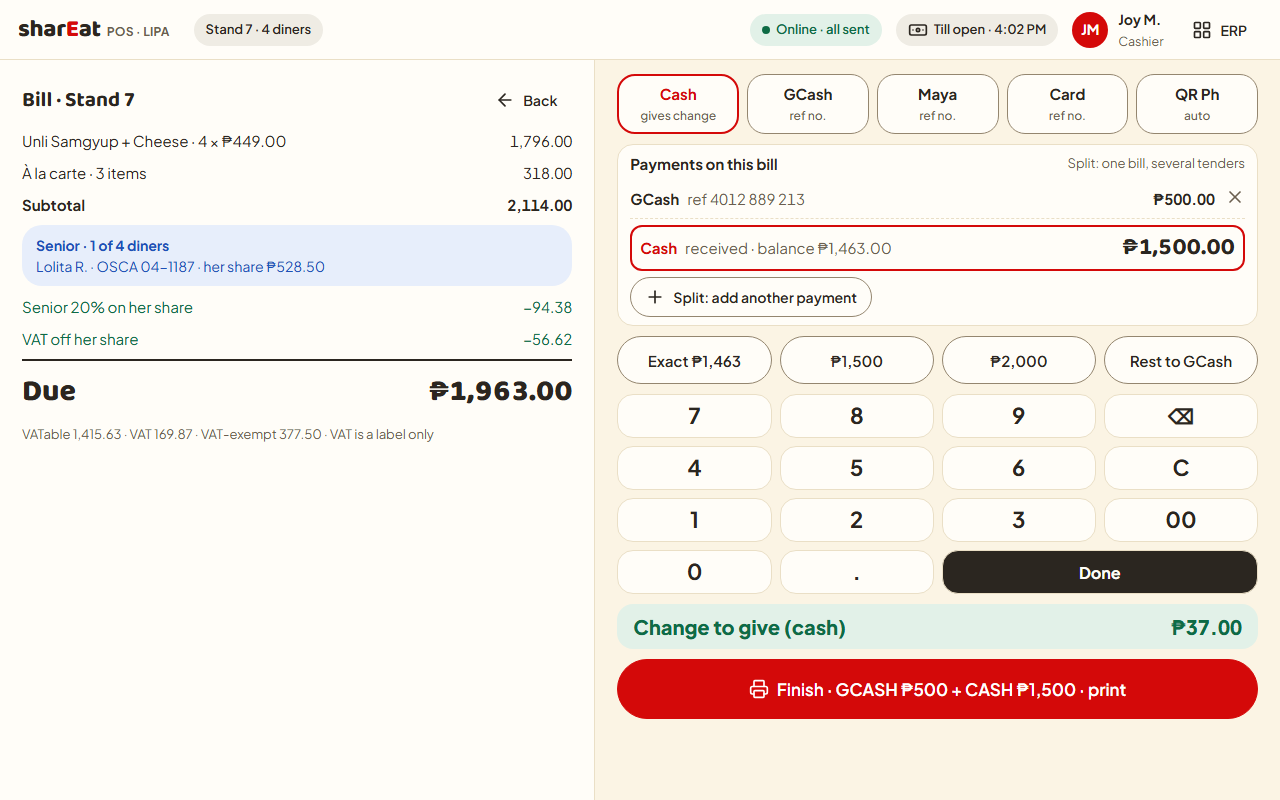
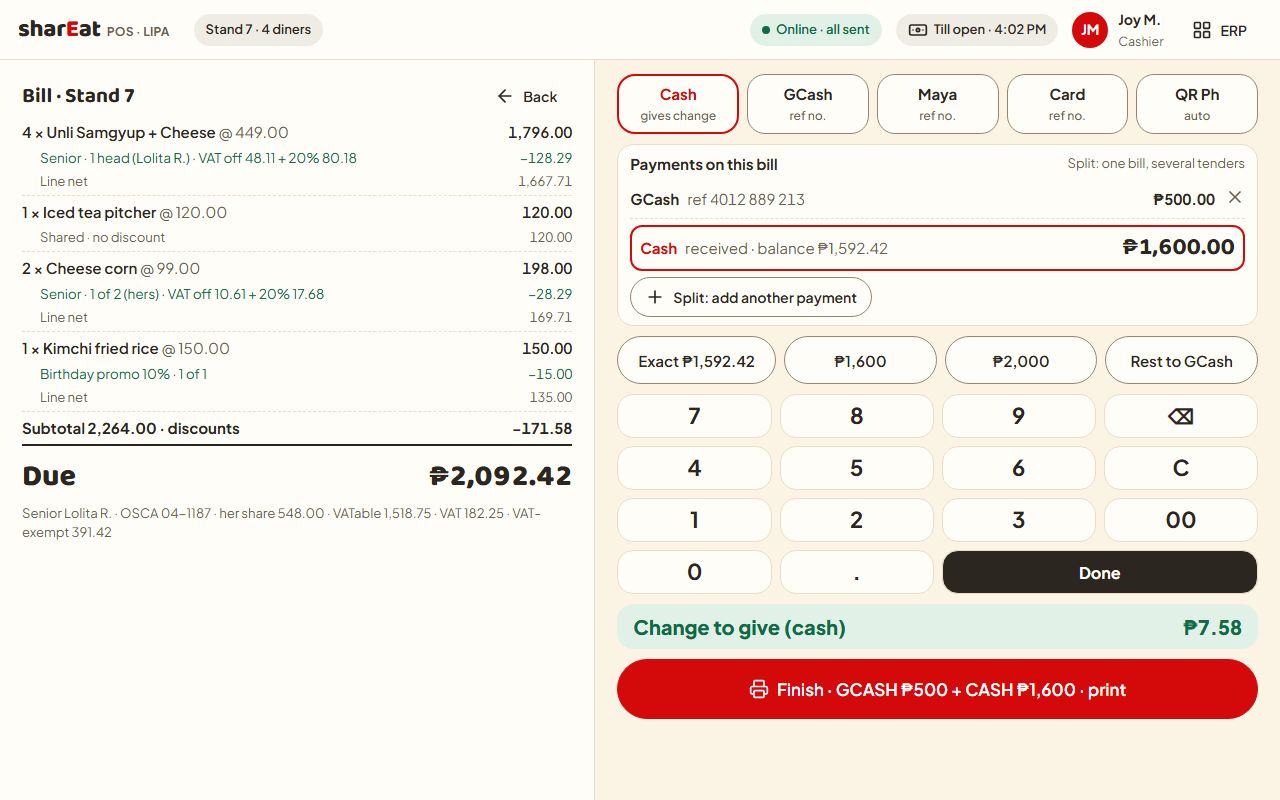
docs: itemized bill with per-line discounts (bible row 439, T-523 R13): presets, line discounts, SC/PWD per line

diff --git a/docs/plans/pos-v2-design/mocks.html b/docs/plans/pos-v2-design/mocks.html
@@ -101,7 +101,7 @@ h3{font-size:15px;margin:0;font-weight:700}
 .sp1.on{background:var(--ink);color:var(--surface);border-color:var(--ink)}
 /* payment */
 .pay{display:grid;grid-template-columns:1fr 1.15fr;flex:1;min-height:0}
-.bill{background:var(--surface);border-right:1px solid var(--surface-border);padding:20px 22px;display:grid;gap:10px;align-content:start}
+.bill{background:var(--surface);border-right:1px solid var(--surface-border);padding:16px 22px;display:grid;gap:5px;align-content:start}
 .bill .r{display:flex;justify-content:space-between;font-size:15px}
 .bill .r.minus{color:var(--success)}
 .bill .r.big{font-family:"Baloo 2";font-size:30px;font-weight:800;border-top:2px solid var(--ink);padding-top:10px}
@@ -186,18 +186,15 @@ neworder:()=>topBar()+tabs('orders')+`<div class="body"><div class="main"><div c
 <div class="gh"><span>À la carte</span><span>2 items</span></div><div class="ln"><span>1 × Iced tea pitcher</span><span class="num">120.00</span></div><div class="ln"><span>1 × Kimchi fried rice</span><span class="num">150.00</span><span class="s">Note: no egg</span></div></div>
 <div class="tot"><div class="r due"><span>Total</span><span class="num">₱1,467.00</span></div></div><div class="acts"><span class="btn primary big full">${ic('send')} Start order · send to kitchen</span></div></aside></div>`,
 payment:()=>topBar('<span class="pill" style="margin-left:10px">Stand 7 · 4 diners</span>')+banner()+`<div class="pay"><div class="bill"><div class="row" style="justify-content:space-between"><h2>Bill · Stand 7</h2><span class="btn ghost sm">${ic('arrow-left')} Back</span></div>
-<div class="r"><span>Unli Samgyup + Cheese · 4 × ₱449.00</span><span class="num">1,796.00</span></div><div class="r"><span>À la carte · 3 items</span><span class="num">318.00</span></div><div class="r" style="font-weight:700"><span>Subtotal</span><span class="num">2,114.00</span></div>
-<div class="card" style="background:var(--info-soft);border:0;padding:10px 14px;font-size:14px;color:var(--info)"><b>Senior · 1 of 4 diners</b><br>Lolita R. · OSCA 04-1187 · her share ₱528.50</div>
-<div class="r minus"><span>Senior 20% on her share</span><span class="num">−94.38</span></div><div class="r minus"><span>VAT off her share</span><span class="num">−56.62</span></div><div class="r big"><span>Due</span><span class="num">₱1,963.00</span></div>
-<div class="muted" style="font-size:13px">VATable 1,415.63 · VAT 169.87 · VAT-exempt 377.50 · VAT is a label only</div></div>
+<div class="r" style="font-weight:600"><span>4 × Unli Samgyup + Cheese <span class="muted" style="font-weight:400">@ 449.00</span></span><span class="num">1,796.00</span></div><div class="r minus" style="font-size:13.5px;padding-left:18px"><span>Senior · 1 head (Lolita R.) · VAT off 48.11 + 20% 80.18</span><span class="num">−128.29</span></div><div class="r muted" style="font-size:13px;padding-left:18px;border-bottom:1px dashed var(--surface-border);padding-bottom:4px"><span>Line net</span><span class="num">1,667.71</span></div><div class="r" style="font-weight:600"><span>1 × Iced tea pitcher <span class="muted" style="font-weight:400">@ 120.00</span></span><span class="num">120.00</span></div><div class="r muted" style="font-size:13px;padding-left:18px;border-bottom:1px dashed var(--surface-border);padding-bottom:4px"><span>Shared · no discount</span><span class="num">120.00</span></div><div class="r" style="font-weight:600"><span>2 × Cheese corn <span class="muted" style="font-weight:400">@ 99.00</span></span><span class="num">198.00</span></div><div class="r minus" style="font-size:13.5px;padding-left:18px"><span>Senior · 1 of 2 (hers) · VAT off 10.61 + 20% 17.68</span><span class="num">−28.29</span></div><div class="r muted" style="font-size:13px;padding-left:18px;border-bottom:1px dashed var(--surface-border);padding-bottom:4px"><span>Line net</span><span class="num">169.71</span></div><div class="r" style="font-weight:600"><span>1 × Kimchi fried rice <span class="muted" style="font-weight:400">@ 150.00</span></span><span class="num">150.00</span></div><div class="r minus" style="font-size:13.5px;padding-left:18px"><span>Birthday promo 10% · 1 of 1</span><span class="num">−15.00</span></div><div class="r muted" style="font-size:13px;padding-left:18px;border-bottom:1px dashed var(--surface-border);padding-bottom:4px"><span>Line net</span><span class="num">135.00</span></div><div class="r" style="font-weight:700"><span>Subtotal 2,264.00 · discounts</span><span class="num">−171.58</span></div><div class="r big"><span>Due</span><span class="num">₱2,092.42</span></div><div class="muted" style="font-size:13px">Senior Lolita R. · OSCA 04-1187 · her share 548.00 · VATable 1,518.75 · VAT 182.25 · VAT-exempt 391.42</div></div>
 <div class="tender"><div class="methods">${[['Cash','gives change',1],['GCash',off?'"to check"':'ref no.'],['Maya',off?'"to check"':'ref no.'],['Card',off?'needs internet':'ref no.',0,off],['QR Ph',off?'needs internet':'auto',0,off]].map(([n,s,on,o])=>`<div class="m ${on?'on':''} ${o?'off':''}">${n}<small>${s}</small></div>`).join('')}</div>
 <div class="card" style="padding:8px 12px;display:grid;gap:6px;border-radius:16px"><div class="row" style="justify-content:space-between"><h3>Payments on this bill</h3><span class="muted" style="font-size:13px">Split: one bill, several tenders</span></div>
 <div class="row" style="justify-content:space-between;font-size:15px;padding:6px 0;border-bottom:1px dashed var(--surface-border)"><span class="row" style="gap:8px"><b>GCash</b><span class="muted num">ref 4012 889 213</span>${off?'<span class="pill warn" style="height:24px">to check</span>':''}</span><span class="row"><b class="num">₱500.00</b><span class="muted">${ic('x')}</span></span></div>
-<div class="row" style="justify-content:space-between;font-size:15px;padding:4px 8px;border:2px solid var(--brand);border-radius:12px"><span class="row" style="gap:8px"><b style="color:var(--brand-ink)">Cash</b><span class="muted">received · balance ₱1,463.00</span></span><b class="num" style="font-family:'Baloo 2';font-size:24px">₱1,500.00</b></div>
+<div class="row" style="justify-content:space-between;font-size:15px;padding:4px 8px;border:2px solid var(--brand);border-radius:12px"><span class="row" style="gap:8px"><b style="color:var(--brand-ink)">Cash</b><span class="muted">received · balance ₱1,592.42</span></span><b class="num" style="font-family:'Baloo 2';font-size:24px">₱1,600.00</b></div>
 <span class="btn sm" style="justify-self:start">${ic('plus')} Split: add another payment</span></div>
-<div class="row" style="display:grid;grid-template-columns:repeat(4,1fr);gap:8px"><span class="btn">Exact ₱1,463</span><span class="btn">₱1,500</span><span class="btn">₱2,000</span><span class="btn">Rest to GCash</span></div>
+<div class="row" style="display:grid;grid-template-columns:repeat(4,1fr);gap:8px"><span class="btn">Exact ₱1,592.42</span><span class="btn">₱1,600</span><span class="btn">₱2,000</span><span class="btn">Rest to GCash</span></div>
 <div class="pad" style="grid-auto-rows:44px">${['7','8','9','⌫','4','5','6','C','1','2','3','00','0','.','',''].map((k,i)=>i===14?`<div class="add" style="grid-column:span 2;height:44px">Done</div>`:i===15?'':`<div style="height:44px">${k}</div>`).join('')}</div>
-<div class="bal" style="padding:8px 16px"><span>Change to give (cash)</span><span class="num">₱37.00</span></div><span class="btn primary big">${ic('printer')} Finish · GCASH ₱500 + CASH ₱1,500 · print</span></div></div>`,
+<div class="bal" style="padding:8px 16px"><span>Change to give (cash)</span><span class="num">₱7.58</span></div><span class="btn primary big">${ic('printer')} Finish · GCASH ₱500 + CASH ₱1,600 · print</span></div></div>`,
 kitchen:()=>topBar('<span class="pill" style="margin-left:10px">Kitchen · Grill station</span>',['RB','Rico B.','Kitchen staff'])+tabs('kitchen')+`<div class="main"><div class="row" style="justify-content:space-between"><div class="cats">${['All','Grill','Hot kitchen','Drinks','Refills'].map((c,i)=>`<span class="chip ${i===1?'on':''}">${c}</span>`).join('')}</div><span class="muted">Oldest first · tap a line when it goes out</span></div>
 <div class="kds">${[{n:12,t:'14 min',late:1,it:[['2','Pork belly (refill)'],['1','Beef brisket'],['x1','Kimchi']]},{n:5,t:'8 min',it:[['2','Cheese corn'],['1','Kimchi fried rice']],note:'No egg on the rice'},{n:9,t:'3 min',ref:1,it:[['3','Pork belly'],['2','Chicken bulgogi']],label:'Refill'},{n:10,t:'1 min',it:[['1','Iced tea pitcher'],['1','Kimchi fried rice'],['3','Starter set']]}].map(t=>`<div class="tk ${t.late?'late':''} ${t.ref?'ref':''}"><div class="th"><span class="no">Stand ${t.n}</span><span class="row" style="font-weight:700;font-size:14px">${t.label?t.label+' · ':''}${ic('clock')} ${t.t}</span></div><ul>${t.it.map(([q,n])=>`<li class="${q.startsWith('x')?'x':''}"><b>${q.replace('x','')}</b><span>${n}</span></li>`).join('')}${t.note?`<li><span class="note">${t.note}</span></li>`:''}</ul><div class="ft"><span class="btn ${t.late?'primary':''}" style="width:100%">${ic('check')} All out</span></div></div>`).join('')}</div></div>`,
 refill:()=>topBar()+banner()+tabs('refill')+`<div class="body"><div class="main"><div class="row" style="justify-content:space-between"><div><h1>Refills</h1><span class="muted">Servers ask here; the grill sees them at once. Refills carry no price.</span></div></div>

diff --git a/PROJECT_BIBLE.md b/PROJECT_BIBLE.md
@@ -65,35 +65,35 @@
 - `1233–1267` 10. Phase plan
 - `1268–1284` 11. Migration & ETL rules
 - `1285–1349` 12. Inherited landmines — do not repeat these
-- `1350–1771` 13. Decision log
-- `1772–1791` 14. Amendment protocol
-- `1792–1796` 15. Engineering standards — the industry practices this project follows
-  - `1797–1802` 15.1 Build order: walking skeleton first
-  - `1803–1814` 15.2 Golden-master testing — the most important practice here
-  - `1815–1823` 15.3 Strangler Fig, not big-bang cutover
-  - `1824–1828` 15.4 No dual-write
-  - `1829–1837` 15.5 Expand/contract migrations
-  - `1838–1846` 15.6 Observability from day zero, not later
-  - `1847–1851` 15.7 CI gates
-  - `1852–1856` 15.8 Backups and a tested restore
-  - `1857–1861` 15.9 Twelve-Factor config
-  - `1862–1869` 15.10 Append-only ledgers — but not event sourcing
-  - `1870–1874` 15.11 Defence in depth
-  - `1875–1903` 15.12 Skills are lenses, not assurance
-  - `1904–1910` 15.13 Reconciliation is a permanent feature
-- `1911–1915` 16. The accounting spine
-  - `1916–1947` 16.0 What we are actually fixing — the diagnosis
-  - `1948–1991` 16.1 The ten invariants — non-negotiable
-  - `1992–2006` 16.2 The oracle: how "correct" is tested
-  - `2007–2028` 16.3 The model — header + lines, not legs
-  - `2029–2048` 16.4 Deliberately simpler than ERPNext
-  - `2049–2118` 16.5 PH-specific rules — isolated, versioned, dated
-  - `2119–2143` 16.6 What v1 already gets right — preserve the intent
-  - `2144–2165` 16.7 Known defects v2 must fix — the Phase 1–3 requirements list
-  - `2166–2180` 16.8 What v1's accounting already gets right
-  - `2181–2224` 16.9 Chart-of-accounts governance — lifecycle, not "create everything"
-  - `2225–2275` 16.10 Posting patterns — one canonical pattern per business event
-  - `2276–2308` 16.11 Inventory's accounting integration
+- `1350–1772` 13. Decision log
+- `1773–1792` 14. Amendment protocol
+- `1793–1797` 15. Engineering standards — the industry practices this project follows
+  - `1798–1803` 15.1 Build order: walking skeleton first
+  - `1804–1815` 15.2 Golden-master testing — the most important practice here
+  - `1816–1824` 15.3 Strangler Fig, not big-bang cutover
+  - `1825–1829` 15.4 No dual-write
+  - `1830–1838` 15.5 Expand/contract migrations
+  - `1839–1847` 15.6 Observability from day zero, not later
+  - `1848–1852` 15.7 CI gates
+  - `1853–1857` 15.8 Backups and a tested restore
+  - `1858–1862` 15.9 Twelve-Factor config
+  - `1863–1870` 15.10 Append-only ledgers — but not event sourcing
+  - `1871–1875` 15.11 Defence in depth
+  - `1876–1904` 15.12 Skills are lenses, not assurance
+  - `1905–1911` 15.13 Reconciliation is a permanent feature
+- `1912–1916` 16. The accounting spine
+  - `1917–1948` 16.0 What we are actually fixing — the diagnosis
+  - `1949–1992` 16.1 The ten invariants — non-negotiable
+  - `1993–2007` 16.2 The oracle: how "correct" is tested
+  - `2008–2029` 16.3 The model — header + lines, not legs
+  - `2030–2049` 16.4 Deliberately simpler than ERPNext
+  - `2050–2119` 16.5 PH-specific rules — isolated, versioned, dated
+  - `2120–2144` 16.6 What v1 already gets right — preserve the intent
+  - `2145–2166` 16.7 Known defects v2 must fix — the Phase 1–3 requirements list
+  - `2167–2181` 16.8 What v1's accounting already gets right
+  - `2182–2225` 16.9 Chart-of-accounts governance — lifecycle, not "create everything"
+  - `2226–2276` 16.10 Posting patterns — one canonical pattern per business event
+  - `2277–2309` 16.11 Inventory's accounting integration
 
 <!-- TOC:END -->
 
@@ -104,7 +104,7 @@
 
 | | |
 |---|---|
-| **Version** | 3.23 — **POS v2 is a full-screen module of the ERP app on the one Postgres, with no Firebase database, sign-in or server; offline selling uses the tablet's own outbox and a snapshot; Lipa on it by 7 Dec 2026 with the 24 h soak as the go-live gate; loyalty not in the first release; the edge-lane wording follows row 280; Lipa's December totals bridge to v1 until 31 Dec; per-diner SC/PWD; split payment like v1 (§13 rows 430–438, `docs/plans/pos-v2-design.md`).** Carries 3.22 — **Ian's 2026-10-14 answers: one person one id, the clock stays fingerprint/card; a narrowing-only position pick (part of row 198); a true per-category receipt exemption with its detector (reverses T-196 decision 2); a local OCR engine allowed (narrows row 251); settlement files parsed; liabilities = one unpaid view (§13 rows 319–331).** Carries 3.21 — **POS and CUSTOMER v1 are copied into this monorepo and moved onto the one Postgres and one auth; sales figures are never typed or edited in the ERP; one Postgres, no hot/cold; POS sells offline 24 h per device; Firebase exit scope PROVISIONAL; `other` retired as an expense method; a push to main is a deploy (§13 rows 269–278, ADR-015).** Carries 3.20 — **push only at wrap-up; every visible refusal names things in words, and only records visible at THIS store; hand grants close-and-replace rather than re-label, staying at that store (supersedes row 188's re-label and T-291 decision 5's mechanism); tests assert the target; number boxes are text with inputMode; blank means not decided; payout account admin-only; descriptions clamp at 3 lines (§13 rows 228–237).** Carries 3.19 (**a POSITION, not a role, decides what a person may do — the `staff` baseline is shrunk to nothing and all 21 everyday capabilities become position grants (§13 row 210); a capability REMOVAL ships backfill-first then flip, never the flip alone, and the backfill is the task rather than a precaution (§13 row 211); and a static census only NOMINATES candidates — running them is what settles it, because three passes of careful reading said 19, 20, and the real number was 22 (§13 row 212).** Carries 3.18 (**prefer a guard to `!` on a regex match; where `!` is used, a comment names what makes it safe, because `!` is the one remedy that silently switches off the `noUncheckedIndexedAccess` this repo turned on deliberately (§13 row 206).** Carries 3.17 (**a remedy is as perishable as a diagnosis: any comment or register row naming a specific token — an identifier, a line number, a secret, a file — and asserting a present-tense fact about it goes stale with nobody editing it, so record the RULING and prefer a NAME to a POSITION (§13 row 204); and production publishes the commit it is running at `/api/health`, the disclosure accepted and named rather than discovered (§13 row 205).** Carries 3.16 (**position access defaults are materialised `person_grants` rows with provenance `'position'`, reconciled at the five moments a human is present and never consulted at check time; a position can only ADD to the role matrix, never subtract; the screen is gated on `grant_capability`, not the `super_admin` literal (§13 row 198).** Carries 3.15 (**the fiscal-period override reaches an elevated manager in an organisation with NO administrator, and that enrolment is intended rather than a leak in row 193 — the adminless fallback is DERIVED from the matrix, so an admin-only capability joins it with no edit to any list (§13 row 196).** Carries 3.14 (**the bootstrap question *“has this system been set up at all?”* joins the closed cross-org caller list at all three sites that ask it, using bootstrap’s own door rather than widening the auth door (§13 row 195); the guard enforcing that list scanned two of nine source roots and now scans all of them (DEF-295).** Carries 3.13 (**an elevated manager's grants are revoked when the organisation gains an active administrator; the elevation ends when the administrator arrives, and is never re-derived at check time (§13 row 188).** Carries 3.12 (a recurring expense drafts itself and never auto-pays; the job acts as its author through the ordinary gates — §13 row 183), 3.11 (§12 gains the sweep-control landmine: a sweep that reports a total must first report a known non-zero control — §13 row 181), 3.10 (the cutover wipes transactional data, not stores and store settings — the Wastage Monitor survives cutover — §13 row 182), 3.9 (the tenancy id never comes from the client, and RLS is the second layer behind the repository filter — never the only one, never absent — §13 row 181), 3.8 (order-wastage tracked-vs-instant is a per-CHANNEL policy, not a per-record choice — §13 row 180), 3.7 (every v1 feature is accounted for in v2 — carried, folded or evolved, never silently dropped — and where v1's data shape drifted over time the most recent shape outweighs the old — §1.2d, §13 row 179), 3.6 (§4.2 rule 7 covers every dashboard tile, not only accounting statements: a separately-accumulated counter is forbidden even when it is called a cache — §13 row 173), 3.5 (discovery has a stated method, §1.2d: synthesize v1's goal in writing, weigh whether the live data is in good shape, then design v2 to beat that goal — v1 is the flawed version, v2 is the improved one), 3.4 (UI/UX is a third authority: familiar-but-upgraded screens, one visual family across ERP/POS/CUSTOMER), 3.3 (an unverified supplier invoice may carry a DRAFT expense), 3.2 (inventory is PERPETUAL from v2's first posting; a return is a credit in both directions), 3.1 (no SC/PWD statutory record is kept) and 3.0 (the card id joins the hot set) — §13 rows 164–173))))))) |
+| **Version** | 3.23 — **POS v2 is a full-screen module of the ERP app on the one Postgres, with no Firebase database, sign-in or server; offline selling uses the tablet's own outbox and a snapshot; Lipa on it by 7 Dec 2026 with the 24 h soak as the go-live gate; loyalty not in the first release; the edge-lane wording follows row 280; Lipa's December totals bridge to v1 until 31 Dec; per-diner SC/PWD; split payment like v1; an itemized bill with per-line discounts (§13 rows 430–439, `docs/plans/pos-v2-design.md`).** Carries 3.22 — **Ian's 2026-10-14 answers: one person one id, the clock stays fingerprint/card; a narrowing-only position pick (part of row 198); a true per-category receipt exemption with its detector (reverses T-196 decision 2); a local OCR engine allowed (narrows row 251); settlement files parsed; liabilities = one unpaid view (§13 rows 319–331).** Carries 3.21 — **POS and CUSTOMER v1 are copied into this monorepo and moved onto the one Postgres and one auth; sales figures are never typed or edited in the ERP; one Postgres, no hot/cold; POS sells offline 24 h per device; Firebase exit scope PROVISIONAL; `other` retired as an expense method; a push to main is a deploy (§13 rows 269–278, ADR-015).** Carries 3.20 — **push only at wrap-up; every visible refusal names things in words, and only records visible at THIS store; hand grants close-and-replace rather than re-label, staying at that store (supersedes row 188's re-label and T-291 decision 5's mechanism); tests assert the target; number boxes are text with inputMode; blank means not decided; payout account admin-only; descriptions clamp at 3 lines (§13 rows 228–237).** Carries 3.19 (**a POSITION, not a role, decides what a person may do — the `staff` baseline is shrunk to nothing and all 21 everyday capabilities become position grants (§13 row 210); a capability REMOVAL ships backfill-first then flip, never the flip alone, and the backfill is the task rather than a precaution (§13 row 211); and a static census only NOMINATES candidates — running them is what settles it, because three passes of careful reading said 19, 20, and the real number was 22 (§13 row 212).** Carries 3.18 (**prefer a guard to `!` on a regex match; where `!` is used, a comment names what makes it safe, because `!` is the one remedy that silently switches off the `noUncheckedIndexedAccess` this repo turned on deliberately (§13 row 206).** Carries 3.17 (**a remedy is as perishable as a diagnosis: any comment or register row naming a specific token — an identifier, a line number, a secret, a file — and asserting a present-tense fact about it goes stale with nobody editing it, so record the RULING and prefer a NAME to a POSITION (§13 row 204); and production publishes the commit it is running at `/api/health`, the disclosure accepted and named rather than discovered (§13 row 205).** Carries 3.16 (**position access defaults are materialised `person_grants` rows with provenance `'position'`, reconciled at the five moments a human is present and never consulted at check time; a position can only ADD to the role matrix, never subtract; the screen is gated on `grant_capability`, not the `super_admin` literal (§13 row 198).** Carries 3.15 (**the fiscal-period override reaches an elevated manager in an organisation with NO administrator, and that enrolment is intended rather than a leak in row 193 — the adminless fallback is DERIVED from the matrix, so an admin-only capability joins it with no edit to any list (§13 row 196).** Carries 3.14 (**the bootstrap question *“has this system been set up at all?”* joins the closed cross-org caller list at all three sites that ask it, using bootstrap’s own door rather than widening the auth door (§13 row 195); the guard enforcing that list scanned two of nine source roots and now scans all of them (DEF-295).** Carries 3.13 (**an elevated manager's grants are revoked when the organisation gains an active administrator; the elevation ends when the administrator arrives, and is never re-derived at check time (§13 row 188).** Carries 3.12 (a recurring expense drafts itself and never auto-pays; the job acts as its author through the ordinary gates — §13 row 183), 3.11 (§12 gains the sweep-control landmine: a sweep that reports a total must first report a known non-zero control — §13 row 181), 3.10 (the cutover wipes transactional data, not stores and store settings — the Wastage Monitor survives cutover — §13 row 182), 3.9 (the tenancy id never comes from the client, and RLS is the second layer behind the repository filter — never the only one, never absent — §13 row 181), 3.8 (order-wastage tracked-vs-instant is a per-CHANNEL policy, not a per-record choice — §13 row 180), 3.7 (every v1 feature is accounted for in v2 — carried, folded or evolved, never silently dropped — and where v1's data shape drifted over time the most recent shape outweighs the old — §1.2d, §13 row 179), 3.6 (§4.2 rule 7 covers every dashboard tile, not only accounting statements: a separately-accumulated counter is forbidden even when it is called a cache — §13 row 173), 3.5 (discovery has a stated method, §1.2d: synthesize v1's goal in writing, weigh whether the live data is in good shape, then design v2 to beat that goal — v1 is the flawed version, v2 is the improved one), 3.4 (UI/UX is a third authority: familiar-but-upgraded screens, one visual family across ERP/POS/CUSTOMER), 3.3 (an unverified supplier invoice may carry a DRAFT expense), 3.2 (inventory is PERPETUAL from v2's first posting; a return is a credit in both directions), 3.1 (no SC/PWD statutory record is kept) and 3.0 (the card id joins the hot set) — §13 rows 164–173))))))) |
 | **Created** | 2026-08-22 |
 | **Last amended** | 2026-11-06 | <!-- ⚠ This field read 2026-09-12 while rows 201, 202 and 203 had already landed on 2026-09-13: §14 step 3 says bump it and the bump was missed. The hand-maintained half of any pair is the half that rots (DEF-240), and this field is the hand-maintained half of §13. -->
 | **Status** | Accounting-correctness project (§1.1). All discovery complete. Root cause identified (§16.0). **Chart of accounts aligned and signed off.** Ready to write Phase 0/1 task specs. |
@@ -909,7 +909,7 @@ The hot set is **closed**. Adding to it requires a bible amendment (§14): every
 addition widens the offline attack surface and the staleness blast radius.
 
 ⭐ **Row 430 (2026-11-06): the POS snapshot is a CLOSED list:** menu with dayparts, stands,
-tenders, discounts, store POS settings, and the list of the store's active staff (ids and
+tenders, discount presets (row 439), store POS settings, and the list of the store's active staff (ids and
 display names only). **No PIN material ever leaves the server:** a device-only PIN verifier is
 made ON the tablet when a person signs in online there (ADR-015 §5 O5), dropped when the person
 leaves the active list, and refused 24 h after the last online refresh. No financial history, no other store's data,
@@ -1768,6 +1768,7 @@ just a patch.**
 | 436 | 2026-11-06 | **LIPA'S DECEMBER 2026 SALES REACH v1'S BOOKS THROUGH A WRITE-ONLY DAY-TOTAL BRIDGE (A NARROW EXCEPTION TO ROW 430), AND PRE-2027 POS ROWS IN POSTGRES ARE PURGED AT CUTOVER.** Ian, 2026-11-06, option (a) of `docs/plans/pos-v2-design.md` §8a. After each Z, the ERP writes that day's totals for Lipa into the one Firestore document v1's sales pull reads, `stores/{posStoreId}/analytics/{yyyymmdd}` (`payments.totalGross`, `txCount`, `byMethod`, `discountsTotal`, `chargesTotal`; a full overwrite, never increments), **for business dates up to 2026-12-31 only**. Built inside T-531. Guards: the writer refuses any date after 31 Dec; the v2 06:00 import (T-396) skips Lipa from its switch date; the trial app is signed out at the switch so nothing else writes that document. December stock usage for Lipa is entered by hand in v1. Because v1 then holds December's booked day totals, **the T-523 transactional POS tables are classed `purge`** (row 379 confirmed for them). | The 2026 books close on v1 (row 379, ADR-005) and v1 reads only that document (`ERP-rebuild/src/lib/server/pos-api.ts:143-168`, `POS/src/app/api/external/sales/route.ts:21-35`); typed figures (option b) were refused as the row 270 hole, and a January go-live (option c) gave up row 431's date | Yes — it ends by itself on 31 Dec |
 | 437 | 2026-11-06 | **A SENIOR OR PWD DINER'S DISCOUNT COVERS THEIR OWN PACKAGE HEAD PLUS THE DISHES ORDERED ONLY FOR THEM; SHARED DISHES ARE NOT DISCOUNTED.** Ian, 2026-11-06 (the PC-7 recommendation, after the 2024 Department of Justice opinion). The 20% discount and the VAT removal apply to that share only (PC-7 payment screen). Several qualifying diners at one table each get their own share and their own `statutory_discount_records` row (T-523 R12). The till marks a dish as "for" a diner when it is ordered; an unmarked dish is shared. | Statutory: the discount is for the qualifying person's own consumption; per-diner is what the approved payment screen shows | Yes |
 | 438 | 2026-11-06 | ⭐ **THE POS v2 CASHIER TAKES A SPLIT PAYMENT LIKE v1: SEVERAL TENDERS ON ONE BILL (E.G. GCASH + CASH), IN RELEASE 1. ONE TABLE = ONE SALES RECEIPT; v1 HAS NO PER-PERSON SPLIT INTO SEPARATE RECEIPTS AND NO PAY-LATER, SO NEITHER IS BUILT.** Ian, 2026-11-06: *"cashier payment screen must process split payment like v1"*. **v1's goal (§1.2d):** the diner pays with whatever mix they carry, the cashier sees the balance shrink with each tender, change comes only from cash, and the drawer and wallet totals stay right. **v1's method** (`POS/src/components/cashier/payment-modal.tsx:271-279, 720-737`; `lib/checkout/receipt-math.ts:59-75`; `lib/server/pos-commands/checkout.ts:111`): a "Split Payment" button adds a row with the remaining balance pre-filled; a reference is required where the method has one; overpaying is allowed only if cash covers the change; at most 20 tenders; the receipt stores a map keyed by method NAME (same names merged) and prints one line per tender, then CHANGE; references are not printed. **v2 keeps the behaviour and beats the method:** one `pos_sales_receipt_payments` row per tender keyed by `tender_id` (T-523 R8), never by name; exact centavos (no 1-centavo tolerance needed); each tender's reference is stored on its row and **printed** on the receipt so the wallet can be matched; offline, an e-wallet tender is "to check" (A3); at most 20 tenders per sales receipt (T-524 rule). Mock: `docs/plans/pos-v2-design/payment.png`. | A split was the one part of v1's payment screen release 1 would otherwise lose; the T-523 schema already supports it, so it costs screen work only (T-528) | Yes |
+| 439 | 2026-11-06 | ⭐ **THE POS v2 BILL AND SALES RECEIPT ARE ITEMIZED, ONE LINE PER PACKAGE AND PER À LA CARTE ITEM (QTY × UNIT PRICE = GROSS, ITS DISCOUNTS, LINE NET), AND A DISCOUNT ATTACHES TO A LINE AND COVERS SOME OR ALL OF ITS UNITS, AS IN v1. SENIOR/PWD USES THE SAME PER-LINE MODEL: THE DINER'S OWN HEAD IS ONE UNIT OF THE PACKAGE LINE AND A DISH ORDERED ONLY FOR THEM IS UNITS OF ITS LINE (ROW 437). IN RELEASE 1.** Ian, 2026-11-06: *"wont ala carte be itemized in billing? i suggest per item line with discount like v1 does"*. **v1's goal (§1.2d):** a discount, a free item or a senior's share is visible on the exact dish it applies to. **v1's method** (`POS/src/lib/types.ts:705-748`, `lib/tax.ts:95-160`, `components/cashier/edit-billable-item-dialog.tsx:409-427`): a `lineAdjustments` map per bill line (preset or custom, % or ₱ per unit, qty covered, oldest first); SC/PWD only as a whole-bill discount; no role check on a line discount; the print shows qty, item, gross and an unnamed "Discount (Nx)". **v2 keeps the behaviour and beats the method:** discount presets become ERP master data (`pos_discount_presets`, T-523 R13; Lipa's six are loaded from v1, the editing screen is T-535); senior/PWD is per line and per diner, with one statutory record per diner; a unit covered by senior/PWD carries no other discount (the statute gives the 20%, not 20% plus a promo; v1 stacked them); the receipt prints the unit price, each discount's name, and the line net. **Open for Ian:** who may give a discount (recommended: a preset by the cashier, a custom amount only with a manager PIN) and whether a whole-bill discount is needed in release 1 (recommended: no, a table promo is one preset applied to every line). Mock: `docs/plans/pos-v2-design/payment.png`. | Release 1 had cut preset discounts (row 431's scope); Ian's request restores them in v1's per-line form, which also carries row 437 with no second mechanism | Yes |
 
 ## 14. Amendment protocol
 

diff --git a/docs/tasks/523-pos-v2-schema.md b/docs/tasks/523-pos-v2-schema.md
@@ -176,10 +176,66 @@ Conventions for every table below (discovery 6 Nov, `packages/db/migrations/0232
   not discounted. Add `for_diner smallint NULL CHECK (between 1 and 200)` to `table_session_lines` (R5): the diner
   number a dish was ordered for, NULL = shared. T-524 computes `share_amount` from it.
 
+## R13 — Itemized bill with per-line discounts (bible row 439; supersedes R12's per-diner table, R5's `for_diner`, R7's `amount`)
+
+Ian, 6 Nov: *"wont ala carte be itemized in billing? i suggest per item line with discount like v1 does"*. v1 attaches a
+discount to one bill line and covers part of its quantity (`POS/src/lib/types.ts:705-748`, `lib/tax.ts:95-108`). Row
+437's senior/PWD share maps onto it exactly: the senior's own head is 1 unit of the package line, and a dish ordered only
+for them is units of that dish's line. So **one per-line discount model carries both presets and SC/PWD**.
+
+1. **Drop `table_session_lines.for_diner`** (R5). The diner is named on the discount instead (item 3).
+2. **New `pos_discount_presets`** (store master data; v2 has no discount table today). `store_id`, `name text NOT NULL
+   CHECK (length(trim(name)) between 1 and 40)`, `value_type text NOT NULL CHECK in ('percent','fixed')`, `value
+   numeric(14,2) NOT NULL CHECK (value > 0)`, `CHECK (value_type <> 'percent' OR value <= 100)`, `status text NOT NULL
+   DEFAULT 'active' CHECK in ('active','retired')`, `created_by`, `created_at`, `updated_at`. Partial unique
+   `(store_id, lower(name)) WHERE status='active'`; `UNIQUE (store_id, id)`. Column UPDATE grant on (`name`,
+   `value_type`, `value`, `status`, `updated_at`). **keep**. Senior and PWD are **not** presets: they are built-in
+   kinds whose 20% and VAT removal come from the statute (rate read from `business_rule_values`, never typed into code).
+   Lipa's presets are loaded by the T-533 ops script from v1 (like the stands); the ERP editing screen is T-535.
+   Added to the snapshot's closed list (bible §5.3) as "discount presets".
+3. **New `table_session_line_discounts`** (the discount while the table is open; v1 lets it be added and removed
+   before payment). `store_id`, `session_line_id` (composite `(store_id, session_line_id)` FK → R5), `kind text NOT NULL
+   CHECK in ('senior','pwd','preset','custom')`, `preset_id uuid NULL` (composite `(store_id, preset_id)` FK),
+   `CHECK ((kind='preset') = (preset_id IS NOT NULL))`, `value_type` and `value` as in item 2 (for senior/pwd:
+   `percent`, the statutory rate), `qty integer NOT NULL CHECK (qty > 0)` (units of the line it covers), `diner_no
+   smallint NULL CHECK (between 1 and 200)`, `CHECK ((kind IN ('senior','pwd')) = (diner_no IS NOT NULL))`,
+   `applied_by` person, `applied_at_device`, `approved_by` person NULL (manager PIN where required; who must approve is
+   a T-524 rule, see Open), `status text NOT NULL DEFAULT 'active' CHECK in ('active','removed')`, `removed_by` person
+   NULL, `removed_at_device` NULL, `CHECK ((status='removed') = (removed_by IS NOT NULL))`. Forward-only trigger
+   (`active → removed`, final; other columns frozen; INSERT refused on a line whose session is paid or voided).
+   Column UPDATE grant on (`status`, `removed_by`, `removed_at_device`). **purge**. T-524 rules (not CHECKs): the active
+   discounts' `qty` on a line never exceeds its billable qty, oldest first (v1 rule); **a unit covered by senior/PWD
+   carries no other discount** (statute: the senior gets the 20%, not 20% plus a promo; this beats v1, which stacked
+   them).
+4. **R7 `pos_sales_receipt_lines` is itemized:** replace `amount` with `gross numeric(14,2) NOT NULL`,
+   `discount_total numeric(14,2) NOT NULL DEFAULT 0 CHECK (discount_total >= 0)`, `net numeric(14,2) NOT NULL`;
+   `CHECK (gross = qty * unit_price)`, `CHECK (discount_total <= gross)`, `CHECK (net = gross - discount_total)`. One
+   receipt line per session line (package head line, à la carte line, refill line at 0).
+5. **Replace R12's `pos_sales_receipt_discounts` with `pos_sales_receipt_line_discounts`** (the frozen copy at
+   payment). `receipt_line_id` → R7 (+ same-org twin; R7 gets `UNIQUE (org_id, id)`), `kind`, `preset_id NULL`, `label
+   text NOT NULL` (the printed name: "Senior", "PWD", or the preset's name, frozen), `value_type`, `value`, `qty`,
+   `diner_no NULL`, `vat_removed numeric(14,2) NOT NULL DEFAULT 0 CHECK (>= 0)`, `CHECK (kind IN ('senior','pwd') OR
+   vat_removed = 0)`, `discount_amount numeric(14,2) NOT NULL CHECK (> 0)`, `statutory_record_id uuid NULL` →
+   `statutory_discount_records(id)` (+ twin), `CHECK ((kind IN ('senior','pwd')) = (statutory_record_id IS NOT
+   NULL))`. Append-only (`history_guard`). **purge**. T-524 rules: a receipt line's `discount_total` = the sum of its
+   rows' `vat_removed + discount_amount`; the sales receipt's `discount_total` = the sum over its lines.
+   **One `statutory_discount_records` row per qualifying diner per sales receipt** (`gross_amount` = that diner's
+   covered gross, `discount_amount` = their 20% + VAT removed), and every line discount of that diner points to it.
+   R12's index swap on `statutory_discount_records` (`… invoice_number, id_number`) stays.
+6. **Tests to change or add (builder):** drop the `for_diner` tests; add: a line discount covering 1 of 3 units is
+   accepted, `qty = 0` refused; a preset discount without `preset_id` refused; a senior discount without `diner_no` or
+   without a statutory record refused; a `vat_removed` on a preset discount refused; receipt line `net ≠ gross −
+   discount_total` refused; a discount added to a paid session's line refused (23001); `removed → active` refused
+   (23514); the registry unit tests list the three new tables (`pos_discount_presets` keep, the other two purge).
+
+**Open for Ian (T-524 rules, not schema):** (Q-a) who may give a discount: v1 lets any cashier add a line discount with no
+check (its whole-bill discount was manager-only). Recommended: a **preset** by the cashier, a **custom** amount or % only
+with a manager PIN. (Q-b) whole-bill discount: recommended **none in release 1**; a promo for the whole table is the same
+preset applied to every line with one "apply to all lines" tap.
+
 ## Not in this slice (and where it goes)
 
-Refunds and `parent_receipt_id`, tender corrections, Convert → **T-534** (own migration) · preset (non-statutory)
-discounts → **T-535** (2 bill discounts in 91 days across all four stores, 0 at Lipa: discovery 42 §4) · stock-usage drafts from sales receipts → **T-535** · the offline thresholds (₱50,000 warning, X-slip every
+Refunds and `parent_receipt_id`, tender corrections, Convert → **T-534** (own migration) · the ERP screen to edit discount presets and any whole-bill discount → **T-535** (presets themselves are in release 1, R13) · stock-usage drafts from sales receipts → **T-535** · the offline thresholds (₱50,000 warning, X-slip every
 4 h, verifier expiry 24 h) → `business_rule_values` (0237, T-511 S5c) read by T-530, so **no column here** (Ian's
 no-hard-coded-values rule, 5 Nov) · X-slips (printed locally; their `xslip.printed` event lands in R10) · loyalty
 (row 432) · PIN verifiers (made on the device; no server table, design §5.2 A6) · a stand-editing ERP screen.

diff --git a/docs/plans/pos-v2-design.md b/docs/plans/pos-v2-design.md
@@ -223,7 +223,7 @@ The bible's "Postgres owns the truth; Firebase owns the edge" line (§1 line 203
 **Seat a party.** Stands are tapped, never typed, and used stands are greyed out (row 371). Heads use a stepper. The first order can hold a package and à la carte together (row 358). Sold-out items show but cannot be tapped (row 307's sold-out flag).
 ![New order](pos-v2-design/new-order.png)
 
-**Payment, as approved in PC-7, redrawn, with split payment (row 438).** The whole bill stays on the left. On the right, "Payments on this bill" lists each tender: here GCash ₱500 with its reference, then Cash ₱1,500 being entered, with the balance shown. "Split: add another payment" adds the next tender with the rest pre-filled, as v1 does. Change comes only from cash. Offline, Card and QR Ph grey out and GCash/Maya say "to check".
+**Payment, as approved in PC-7, redrawn, with split payment (row 438) and an itemized bill (row 439).** The bill on the left has one line per package and per dish: qty × unit price, then each discount on that line by name (here the senior's own head on the package line, her own cheese corn, and a 10% promo on one dish), then the line net. On the right, "Payments on this bill" lists each tender: here GCash ₱500 with its reference, then Cash ₱1,500 being entered, with the balance shown. "Split: add another payment" adds the next tender with the rest pre-filled, as v1 does. Change comes only from cash. Offline, Card and QR Ph grey out and GCash/Maya say "to check".
 ![Payment offline](pos-v2-design/payment-offline.png)
 
 **Kitchen, Grill Night theme.** One card per stand, oldest first, a station filter, and late tickets in red. "All out" is the tap. Dark because kitchens are hot, bright and read from a distance; the light version is also rendered (`kitchen.png`).
@@ -311,11 +311,11 @@ the switch, so it cannot add increments to the same document; (3) the writer ref
 |---|---|---|---|---|---|
 | **T-522** | Docs: bible rows 430–434 and ADR-015 Amendment 2 (**done 6 Nov**); this plan kept true | 6 Nov | S | Opus | — |
 | **T-523** | Schema: stands master, `table_sessions`, session lines with kitchen states and price-0 refills, receipts + lines + payments, day-close (Z) record, POS event inbox `UNIQUE (device_id, seq)`, the per-store POS switch. Classification + RLS registry. Migrations from 0238. **Own PR** | W1 · 9–12 Nov | M | Opus spec (plan mode) → Sonnet | T-522 |
-| **T-524** | Domain `packages/domain/src/pos`: open stand, add lines (package + à la carte), confirm heads (`max(cashier, server)`), refill, ticket served, void unpaid stand (manager/admin), pay with server recompute-and-compare (cash, e-wallet "to check", senior/PWD per diner writing `statutory_discount_records` with `source = pos`). Integration tests on real Postgres, including two voids at once and a replayed event | W1–W2 · 10–18 Nov | L | Sonnet (money lane) + Sonnet auditor | T-523 |
+| **T-524** | Domain `packages/domain/src/pos`: open stand, add lines (package + à la carte), confirm heads (`max(cashier, server)`), refill, ticket served, void unpaid stand (manager/admin), per-line discounts (preset, custom, senior/PWD; qty covered; no stacking on a senior unit; row 439), pay with server recompute-and-compare (cash, e-wallet "to check", one `statutory_discount_records` row per qualifying diner with `source = pos`). Integration tests on real Postgres, including two voids at once and a replayed event | W1–W2 · 10–18 Nov | L | Sonnet (money lane) + Sonnet auditor | T-523 |
 | **T-525** | APIs: `/api/pos/events` (idempotent, quarantine, mismatch finding), `/api/pos/snapshot` (ETag, closed list per §5.3 / row 430), `/api/pos/state` (version, 304) | W2 · 16–19 Nov | M | Sonnet | T-524 |
 | **T-526** | `/pos` kiosk shell in `apps/erp`: tabs, status pills, T-464 sign-in wired, offline PIN verifier, route capabilities, census guards, Grill Night default on Kitchen (row 433) | W2 · 16–20 Nov | M | Sonnet | T-525 (stubs from 16 Nov) |
 | **T-527** | Screens: Orders (stands) + Seat a party + add items | W2–W3 · 18–24 Nov | M | Sonnet | T-526 |
-| **T-528** | Screens: Payment (**split payment: several tenders on one bill, row 438**; cash, GCash/Maya "to check", **senior/PWD per diner with name and ID**; share = own head + dishes ordered only for them, row 437) + receipt print and reprint (Bluetooth plugin, browser fallback) | W3 · 23–26 Nov | M | Sonnet (money lane) | T-527 |
+| **T-528** | Screens: Payment (**itemized bill with per-line discounts, row 439**; **split payment: several tenders on one bill, row 438**; cash, GCash/Maya "to check", **senior/PWD per diner with name and ID**; share = own head + dishes ordered only for them, row 437) + receipt print and reprint (Bluetooth plugin, browser fallback) | W3 · 23–26 Nov | M | Sonnet (money lane) | T-527 |
 | **T-529** | Screens: Kitchen + Refills (polling, T-508 station routing, printed tickets offline) | W3 · 23–26 Nov | M | Sonnet | T-526 |
 | **T-530** | Offline: port `lib/terminal` + outbox to typed events, service-worker app-shell cache, offline printing, X-slip every 4 h, ₱50k warning, update gate | W2–W3 · 16–26 Nov | L | Sonnet | T-525 |
 | **T-531** | Day close: Z on the POS (row 390) → ERP sales day `source = pos_receipts` for the store; Lipa leaves the bridge and the v1 day feed from the switch date. **Plus the December day-total writer to v1's Firestore document, up to 31 Dec only, with its three guards (row 436)**. Till opening and counting use the **existing ERP till screen** (row 319), no new tab | W3 · 23–27 Nov | M | Sonnet (money lane) | T-524 |
